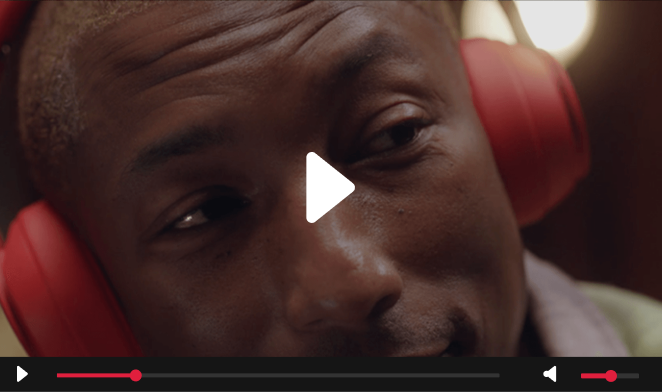
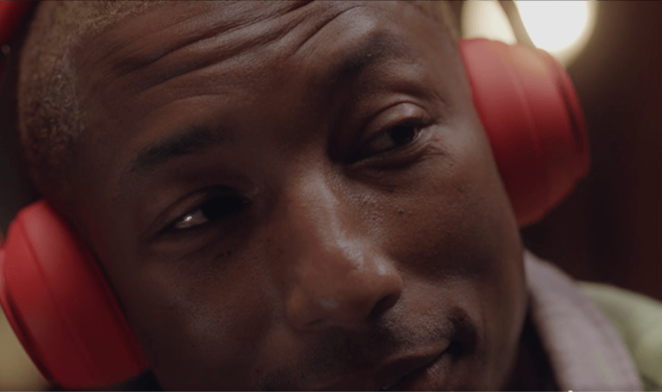
Add Video block

diff --git a/styles/main.css b/styles/main.css
@@ -1338,6 +1338,51 @@ p {
   font-family: "Play";
 }
 
+.player-section__container {
+  display: -webkit-box;
+  display: -ms-flexbox;
+  display: flex;
+  -webkit-box-orient: vertical;
+  -webkit-box-direction: normal;
+      -ms-flex-direction: column;
+          flex-direction: column;
+  -webkit-box-align: center;
+      -ms-flex-align: center;
+          align-items: center;
+  -webkit-box-pack: center;
+      -ms-flex-pack: center;
+          justify-content: center;
+}
+
+.player {
+  width: 41.375rem;
+  height: 24.5rem;
+  position: relative;
+}
+.player .active .player__splash {
+  display: block;
+}
+.player .active .player__start {
+  display: block;
+  cursor: pointer;
+  width: 0;
+  height: 0;
+  border-radius: 1px;
+  background: transparent;
+  border-top: 12px solid transparent;
+  border-left: 17px solid #fff;
+  border-bottom: 12px solid transparent;
+}
+.player .paused .player__splash {
+  display: none;
+}
+.player .paused .player__start {
+  height: 22px;
+  border-style: double;
+  border-width: 0 0 0 17px;
+  border-color: #fff;
+}
+
 .player__title {
   text-align: center;
   margin: 3.1875rem 0;
@@ -1346,6 +1391,83 @@ p {
   .player__title {
     margin: 0;
   }
+}
+
+.player__splash {
+  position: absolute;
+  top: 0;
+  left: 0;
+  right: 0;
+  bottom: 0;
+  cursor: pointer;
+  background: url(../../img/player.png) center no-repeat;
+}
+
+.player__controls {
+  position: absolute;
+  bottom: 0;
+  left: 0;
+  right: 0;
+  height: 35px;
+  background: #151515;
+  display: -webkit-box;
+  display: -ms-flexbox;
+  display: flex;
+  -webkit-box-align: center;
+      -ms-flex-align: center;
+          align-items: center;
+  -webkit-box-pack: justify;
+      -ms-flex-pack: justify;
+          justify-content: space-between;
+  padding: 0 25px;
+}
+
+.player__duration {
+  color: #333333;
+  font-family: "Play";
+}
+
+.player__start {
+  display: block;
+  cursor: pointer;
+  width: 0;
+  height: 0;
+  border-radius: 1px;
+  background: transparent;
+  border-top: 12px solid transparent;
+  border-left: 17px solid #fff;
+  border-bottom: 12px solid transparent;
+  border-right: transparent;
+}
+
+.player__playback {
+  width: 27.625rem;
+  height: 4px;
+  position: relative;
+}
+
+.player__playback::before {
+  content: "";
+  position: absolute;
+  background: #333333;
+  height: 4px;
+  top: 50%;
+  left: 0;
+  right: 0;
+  display: block;
+  -webkit-transform: translateY(-50%);
+          transform: translateY(-50%);
+}
+
+.player__playback-button {
+  position: absolute;
+  background: #333333;
+  width: 0.9375rem;
+  height: 0.9375rem;
+  border: 1px solid #333333;
+  border-radius: 50%;
+  -webkit-transform: translate(-50%, -45%);
+          transform: translate(-50%, -45%);
 }
 
 .order {

diff --git a/script.js b/script.js
@@ -291,3 +291,115 @@ const init = () => {
 }
 
 ymaps.ready(init);
+
+//player 
+
+let player;
+const  playerContainer = $('.player');
+
+let eventsInit = () => {
+  $(".player__start").click(e => {
+    e.preventDefault();
+
+    if(playerContainer.hasClass("paused")) {
+      playerContainer.removeClass("paused");
+      playerContainer.addClass("active");
+      player.pauseVideo();
+    } else  {
+      playerContainer.addClass("paused");
+      player.playVideo();
+    }
+  })
+
+  $(".player__playback").click(e => {
+    const bar = $(e.currentTarget);
+    const clickedPosition = e.originalEvent.layerX;
+    const newButtonPositionPercent = (clickedPosition / bar.width()) * 100;
+    const newPlaybackPositionSec = (player.getDuration() / 100) * newButtonPositionPercent;
+
+    $(".player__playback-button").css({
+      left: `${newButtonPositionPercent}%`
+    })
+
+    player.seekTo(newPlaybackPositionSec);
+
+  })
+
+};
+
+const formatTime = timeSec => {
+  const roundTime = Math.round(timeSec);
+
+  const minutes = addZero(Math.floor(roundTime / 60));
+  const seconds = addZero(roundTime - minutes * 60);
+
+  function addZero(num) {
+    return num < 10 ? `0${num}` : num;
+  }
+
+  return `${minutes}:${seconds}`;
+}
+
+const onPlayerReady = () => {
+  let interval;
+  const durationSec = player.getDuration();
+
+  $(".player__duration-estimate").text(formatTime(durationSec));
+
+  if (typeof interval != 'undefined') {
+    clearInterval(interval);
+  }
+
+  interval = setInterval(() => {
+    const completedSec = player.getCurrentTime();
+
+    const completedPercent = (completedSec / durationSec) * 100;
+
+    $(".player__playback-button").css({
+      left: `${completedPercent}%`
+    })
+    $(".player__duration-completed").text(formatTime(completedSec));
+  }, 1000)
+}
+
+const onPlayerStateChange = event => {
+  /*
+-1 (воспроизведение видео не начато)
+0 (воспроизведение видео завершено)
+1 (воспроизведение)
+2 (пауза)
+3 (буферизация)
+5 (видео подают реплики).
+  */
+  switch (event.data) {
+    case 1:
+      playerContainer.addClass("active");
+      break;
+
+    case 2:
+      playerContainer.removeClass("active");
+      break;
+  }
+}
+
+ function onYouTubeIframeAPIReady() {
+    player = new YT.Player('yt-player', {
+      height: '392',
+      width: '662',
+      videoId: 'gYHT_RVN0bw',
+      events: {
+        onReady: onPlayerReady,
+        onStateChange: onPlayerStateChange
+      },
+      playerVars: {
+        controls: 0,
+        disablekb: 0,
+        showinfo: 0,
+        autoplay: 0,
+        rel: 0,
+        modestbranding: 0
+      }
+    });
+}
+
+eventsInit();

diff --git a/styles/blocks/_video.scss b/styles/blocks/_video.scss
@@ -4,6 +4,51 @@
   font-family: 'Play';
 }
 
+.player-section__container {
+  display: flex;
+  flex-direction: column;
+  align-items: center;
+  justify-content: center;
+}
+
+.player {
+  width: rem(662px);
+  height: rem(392px);
+  position: relative;
+  
+  .active {
+    .player__splash {
+      display: block;
+    }
+
+    .player__start {
+      display: block;
+      cursor: pointer;
+      width: 0;
+      height: 0;
+      border-radius: 1px;
+      background: transparent;
+      border-top: 12px solid transparent;
+      border-left: 17px solid #fff;
+      border-bottom: 12px solid transparent;
+    }
+  }
+
+  .paused {
+    .player__splash {
+      display: none;
+    }
+
+    .player__start {
+      height: 22px;
+      border-style: double;
+      border-width: 0 0 0 17px;
+      border-color: #fff;
+    }
+  }
+
+}
+
 .player__title {
   text-align: center;
   margin: rem(51px) 0;
@@ -12,4 +57,73 @@
   @include phones {
     margin: 0;
   }
+}
+
+.player__splash {
+  position: absolute;
+  top: 0;
+  left: 0;
+  right: 0;
+  bottom: 0;
+  cursor: pointer;
+  background: url(../../img/player.png) center no-repeat;
+}
+
+.player__controls {
+    position: absolute;
+    bottom: 0;
+    left: 0;
+    right: 0;
+    height: 35px;
+    background: #151515;
+    display: flex;
+    align-items: center;
+    justify-content: space-between;
+    padding: 0 25px;
+}
+
+.player__duration {
+  color: #333333;
+  font-family: 'Play';
+}
+
+.player__start {
+  display: block;
+  cursor: pointer;
+  width: 0;
+	height: 0;
+  border-radius: 1px;
+  background: transparent;
+	border-top: 12px solid transparent;
+	border-left: 17px solid #fff;
+	border-bottom: 12px solid transparent;
+  border-right: transparent;
+}
+
+.player__playback {
+  width: rem(442px);
+  height: 4px;
+  position: relative;
+}
+
+.player__playback::before {
+  content: '';
+  position: absolute;
+  background: #333333;
+  height: 4px;
+  top: 50%;
+  left: 0;
+  right: 0;
+  display: block;
+  transform: translateY(-50%);
+}
+
+.player__playback-button {
+  position: absolute;
+  background: #333333;
+  width: rem(15px);
+  height: rem(15px);
+  border: 1px solid #333333;
+  border-radius: 50%;
+  transform: translate(-50%, -45%);
 }

diff --git a/index.html b/index.html
@@ -645,6 +645,7 @@
   <script src="./js/onepage-scroll/jquery.onepage-scroll.js"></script>
   <script src="https://cdn.jsdelivr.net/npm/@fancyapps/ui@5.0/dist/fancybox/fancybox.umd.js"></script>
   <script src="https://api-maps.yandex.ru/2.1/?apikey=YOUR_API_KEY&lang=ru_RU"></script>
+  <script src="https://www.youtube.com/iframe_api"></script>
   <script src="script.js"></script>
   <script src="./js/slick/slick.js"></script>
   
